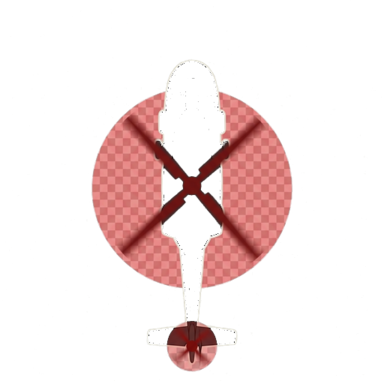
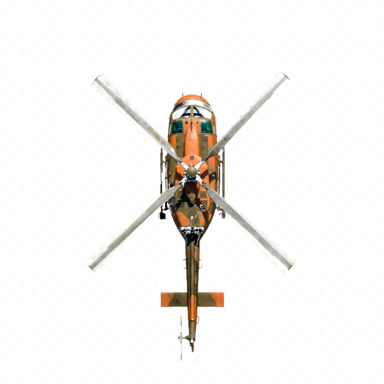
fix(maps): tour opens on first city + new orange helicopter sprite
Two changes combined for the tour-flow polish:

1. Tour now opens on the first city (Tokyo) before the helicopter
   leg loop. Previously after fit_bounds the loop's first iteration
   jumped straight to the SECOND city (Sydney) — the helicopter
   was placed at Tokyo but the camera never zoomed in there, so
   the user never saw the helicopter at its starting position. Add
   an explicit map_fly_to(points[0], zoom=5, duration_ms=3000) +
   1s dwell before the loop.

2. Replaces the helicopter sprite with the new top-down PNG
   (orange/olive fuselage with rotor blur), processed through the
   same saturation-mask chroma-key pipeline (this source had a
   slightly tighter checker pattern, so level adjusted from
   6%–20% to 4%–18% for cleaner edge handling). Output 256KB at
   384×384. Better top-down silhouette than the previous source —
   reads correctly as a helicopter from the air at the map zoom
   levels we use.

diff --git a/docs/installation/rooms/maps/showcase_tour.py b/docs/installation/rooms/maps/showcase_tour.py
@@ -57,6 +57,15 @@ heli = map_add_image(
     points[0][0], points[0][1],
     width=80, height=80,
 )
+
+# Open on the first city — camera flies in from the wide fit_bounds
+# view to where the helicopter sits. Without this the camera would
+# jump from "all four cities" straight to the SECOND city on the
+# first loop iteration, and the user would never see the helicopter
+# at its starting position.
+map_fly_to(points[0][0], points[0][1], zoom=5, duration_ms=3000)
+map_sleep_ms(1000)  # let the user register "we're at Tokyo"
+
 for lat, lng, name in points[1:]:
     # 4500ms per leg gives a cinematic "swoop" — long enough to read
     # the camera arc but not boring. face_heading rotates the sprite
